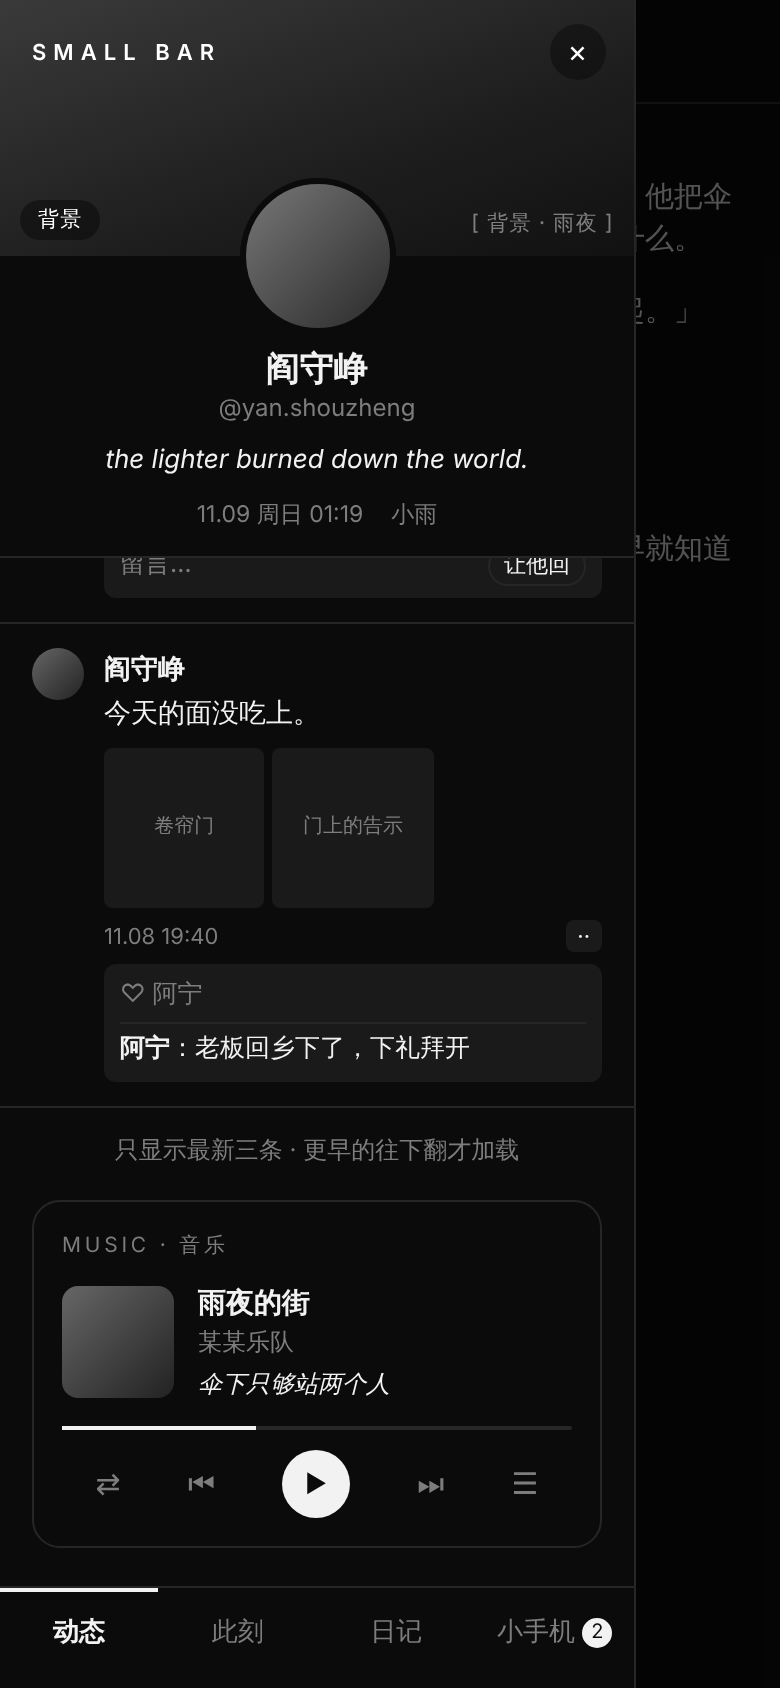
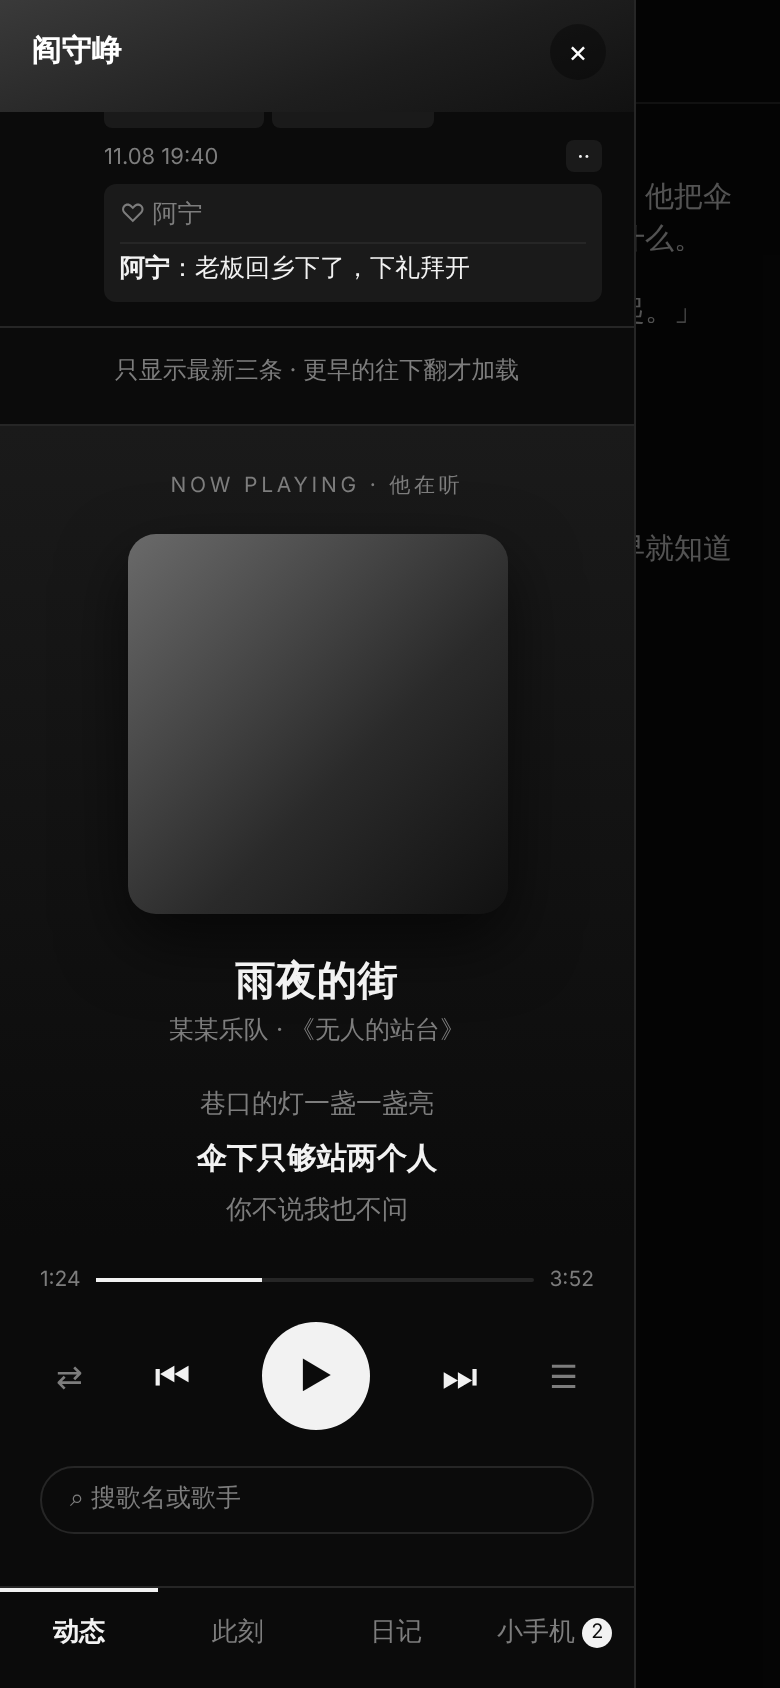
样子图：音乐改大气、此刻加备忘录、日记点开一篇；往下滑顶上收成一条
Claude-Session: https://claude.ai/code/session_01PCU4N3EkwLiSvaEMBpozR4

diff --git a/docs/mockups/mock.html b/docs/mockups/mock.html
@@ -130,6 +130,26 @@ body{margin:0;width:390px;height:844px;overflow:hidden;font:14px/1.5 -apple-syst
 .bar2{height:2px;background:var(--line);border-radius:1px;margin:12px 0 10px}.bar2 i{display:block;width:38%;height:100%;background:var(--fg)}
 .mctl{display:flex;justify-content:space-around;align-items:center;font-size:15px;color:var(--dim)}.mctl .play{width:34px;height:34px;border-radius:50%;background:var(--fg);color:var(--bg);display:flex;align-items:center;justify-content:center;font-size:12px}
 #feed{overflow:auto}
+.music2{margin:6px 0 0;padding:22px 20px 26px;border-top:1px solid var(--line);background:linear-gradient(var(--soft),var(--bg) 70%)}
+.bigcover{width:190px;height:190px;margin:0 auto;border-radius:14px;background:linear-gradient(135deg,#d6d6d6,#6a6a6a 60%,#2e2e2e);box-shadow:0 14px 34px rgba(0,0,0,.25)}
+.dark .bigcover{background:linear-gradient(135deg,#6a6a6a,#2a2a2a 60%,#111);box-shadow:0 14px 34px rgba(0,0,0,.6)}
+.mt2{text-align:center;font-size:20px;font-weight:700;margin-top:18px;letter-spacing:.02em}
+.ma2{text-align:center;font-size:12.5px;color:var(--dim);margin-top:2px}
+.lyr{text-align:center;margin-top:14px;font-size:13px;color:var(--dim);line-height:1.9}.lyr .cur{color:var(--fg);font-size:15px;font-weight:600}
+.prog{display:flex;align-items:center;gap:8px;font-size:10.5px;color:var(--dim);margin-top:14px}.prog .bar2{flex:1;margin:0}
+.mctl2{display:flex;justify-content:space-between;align-items:center;margin:14px 8px 0;font-size:16px;color:var(--dim)}.mctl2 .big{font-size:20px;color:var(--fg)}
+.play2{width:54px;height:54px;border-radius:50%;background:var(--fg);color:var(--bg);display:flex;align-items:center;justify-content:center;font-size:18px}
+.msearch{margin-top:18px;height:34px;border-radius:17px;border:1px solid var(--line);display:flex;align-items:center;padding:0 14px;font-size:12.5px;color:var(--dim)}
+.memo{display:flex;align-items:center;gap:10px;padding:8px 0;border-bottom:1px solid var(--line);font-size:13.5px}
+.memo .ck{width:16px;height:16px;border:1.5px solid var(--fg);border-radius:4px;display:flex;align-items:center;justify-content:center;font-size:11px;flex:0 0 auto}
+.memo.done{color:var(--dim);text-decoration:line-through}.memo.done .ck{border-color:var(--dim)}
+.dback{font-size:12.5px;color:var(--dim)}
+.dtitle{font-size:18px;font-weight:700;margin-top:4px;font-family:"Songti SC","Noto Serif CJK SC",serif}
+.slip{margin:16px 30px 0 auto;width:72%;background:var(--soft);border:1px solid var(--line);padding:8px 10px;font-size:12.5px;transform:rotate(-1.5deg);box-shadow:0 3px 8px rgba(0,0,0,.08)}
+.dacts{display:flex;justify-content:space-between;margin-top:20px;padding-top:10px;border-top:1px solid var(--line);font-size:12px;color:var(--dim)}
+.drawer.pf.mini .cover{height:56px}.drawer.pf.mini .cover>span:not(.x){display:none}.drawer.pf.mini .cover{font-size:0}
+.drawer.pf.mini .pfav,.drawer.pf.mini .pfhd,.drawer.pf.mini .pfbio,.drawer.pf.mini .pfmeta{display:none}
+.drawer.pf.mini .pfname{position:absolute;top:16px;left:16px;margin:0;color:#fff;font-size:15px}
 </style></head><body>
 <div class="st">
   <div class="bar"><span style="font-size:13px;color:var(--fg)">阎守峥</span></div>
@@ -172,7 +192,7 @@ const drawer=`<div class="shade"></div><div class="drawer">
 const P=(t,body,media,a)=>`<div class="post"><div class="av xs"></div><div style="flex:1"><div><b style="font-size:13px">阎守峥</b> <span class="hd">· ${t}</span></div>
    <div class="body">${body}</div>${media?`<div class="media">[ 照片 · ${media} ]</div>`:''}
    <div class="acts"><span>♡ ${a[0]}</span><span>○ ${a[1]}</span><span>↻ ${a[2]}</span></div></div></div>`;
-const tab=q.get('tab')||'posts';
+const tab0=q.get('tab')||'posts';const tab=tab0==='diaryopen'?'diary':tab0;
 const TABS=[['posts','动态'],['now','此刻'],['diary','日记'],['phone','小手机']];
 const tabsHtml=`<div class="tabs">${TABS.map(([k,n])=>`<span class="${k===tab?'on':''}">${n}${k==='phone'?' <span class="badge sm">2</span>':''}</span>`).join('')}</div>`;
 const body={
@@ -201,11 +221,15 @@ const body={
    </div>
   </div>
   <div class="mo last"><span class="hd">只显示最新三条 · 更早的往下翻才加载</span></div>
-  <div class="music">
-   <div class="cap" style="margin-bottom:10px">music · 音乐</div>
-   <div class="mrow"><div class="cover"></div><div style="flex:1;min-width:0"><div class="mtt">雨夜的街</div><div class="hd">某某乐队</div><div class="lyric">伞下只够站两个人</div></div></div>
-   <div class="bar2"><i></i></div>
-   <div class="mctl"><span>⇄</span><span>⏮</span><span class="play">▶</span><span>⏭</span><span>☰</span></div>
+  <div class="music2">
+   <div class="cap" style="text-align:center;margin-bottom:16px">now playing · 他在听</div>
+   <div class="bigcover"></div>
+   <div class="mt2">雨夜的街</div>
+   <div class="ma2">某某乐队 · 《无人的站台》</div>
+   <div class="lyr"><div>巷口的灯一盏一盏亮</div><div class="cur">伞下只够站两个人</div><div>你不说我也不问</div></div>
+   <div class="prog"><span>1:24</span><div class="bar2"><i></i></div><span>3:52</span></div>
+   <div class="mctl2"><span>⇄</span><span class="big">⏮</span><span class="play2">▶</span><span class="big">⏭</span><span>☰</span></div>
+   <div class="msearch">⌕ 搜歌名或歌手</div>
   </div>
  </div>`,
  now:`<div class="feed" style="padding:14px 16px">
@@ -215,6 +239,20 @@ const body={
    <div class="k">想要</div><div class="want"><span class="heart">♥</span>她再待一会儿</div>
   </div>
   <div class="voice"><div><span class="k" style="color:var(--dim);font-size:11px;letter-spacing:.14em">心声</span><br>伞再偏一点她就看出来了。</div><span class="flip">翻面</span></div>
+  <div class="cap" style="margin:20px 0 8px;display:flex;justify-content:space-between"><span>memo · 备忘录</span><span>3 / 15</span></div>
+  <div class="memo"><span class="ck"></span>明早七点去码头接货</div>
+  <div class="memo"><span class="ck"></span>伞拿去修，伞骨断了一根</div>
+  <div class="memo"><span class="ck"></span>问阿宁面馆哪天开</div>
+  <div class="memo done"><span class="ck">✓</span>把那件大衣送去干洗</div>
+ </div>`,
+ diaryopen:`<div class="feed" style="padding:14px 16px 10px">
+  <div class="dback">← 日记</div>
+  <div class="dday" style="margin-top:12px"><b>11.09</b> 周日 · 小雨</div>
+  <div class="dtitle">等雨停</div>
+  <div class="dtext">她今天没带伞。我在巷口等了四十分钟，跟自己说是在等雨停。<br><br>回去的路上她一直没说话，快到门口才问我冷不冷。我说不冷。肩膀湿了一半，她大概看见了。</div>
+  <div class="dsign">—— 守</div>
+  <div class="slip"><div class="hd" style="font-size:10.5px;margin-bottom:2px">她留的小纸条</div>看见了。下次伞往你自己那边打。</div>
+  <div class="dacts"><span>♡ 喜欢</span><span>✎ 纸条</span><span>⤓ 存图</span><span>⧉ 复制</span><span>删除</span></div>
  </div>`,
  diary:`<div class="feed" style="padding:14px 16px">
   <div class="dday"><b>11.09</b> 周日 · 小雨</div>
@@ -244,7 +282,7 @@ const profile=`<div class="shade"></div><div class="drawer pf">
  <div class="pfhd">@yan.shouzheng</div>
  <div class="pfbio">the lighter burned down the world.</div>
  <div class="pfmeta"><span>11.09 周日 01:19</span><span>小雨</span></div>
- ${body[tab]||body.posts}
+ ${body[tab0]||body.posts}
  ${tabsHtml}
  ${q.get('bg')?bgsheet:''}
 </div>`;
@@ -281,5 +319,5 @@ const phone=`<div class="shade"></div><div class="phone">
 </div>`;
 document.getElementById('cat').src='cat-'+(q.get('t')==='dark'?'dark':'light')+'-'+(q.get('c')||'idle')+'.png'; if(s) document.getElementById('cat').style.display='none';
 document.getElementById('extra').innerHTML = s==='drawer'?drawer : s==='profile'?profile : s==='x'?xpage : s==='phone'?phone : '';
-if(q.get('scroll')){const f=document.getElementById('feed');if(f)f.scrollTop=9999;}
+if(q.get('scroll')){document.querySelector('.drawer.pf')?.classList.add('mini');const f=document.getElementById('feed');if(f)f.scrollTop=9999;}
 </script></body></html>

diff --git a/docs/design.md b/docs/design.md
@@ -19,9 +19,10 @@
 2. **账号和记忆**：分账号（工作 / 私人……）；「他认出你」「你认出他」两项分开设（没认出 / 怀疑 / 确认），可勾他线上已知道的资料；每个联系人记最近 N 条（默认 50），可选带进正文、可选给别的账号参考
 3. **X**（公开的网上身份，可单独关）：他的主页（头像、背景、网名、账号、简介都能改）；随剧情 0～2 条新帖，显示最新 15 条；点赞、收藏、留言、搜索、删帖；私信是另一段关系（你对他是陌生人），他可能已读不回、拉黑；你可以有多个 X 账号；从 X 加到小手机
 4. **动态**：就是朋友圈（她 11/9 确认「差不多」）：熟人圈子、现实身份，和 X 分开。样子 moments-*.png：正文、照片九宫格（写画面描述）、时间地点；底下点赞名单和留言，她能点赞、留言，他回复她；「让他回」马上单独请求一次，不点就等下一轮正文顺带回。只显示最新三条，更早的往下翻才加载
-   - 音乐卡片在动态最下面，往下滑才看到（music-*.png）
-5. **此刻**：时间、天气、在哪、穿着、想要（心跳）、心声（翻面看另一面）；备忘录（要做的事，最多 15 项）
-6. **日记**：不强制每轮写，酌情 0～2 篇，列表显示最新 3 篇；笔名署名；喜欢、留小纸条、存成图片、复制、删除
+   - 音乐在动态最下面，往下滑才看到；她要「大气一点」：大封面居中、歌名大字、上中下三句歌词（当前句加粗）、进度、大播放钮、搜歌框（music-*.png）
+   - 往下滑时顶上主页收成一条（只剩名字和 ×），给内容让地方
+5. **此刻**：时间、天气、在哪、穿着、想要（心跳）、心声（翻面看另一面）；备忘录（要做的事，最多 15 项，做完划掉暂留）。样子 now-*.png
+6. **日记**：不强制每轮写，酌情 0～2 篇，列表显示最新 3 篇；笔名署名；喜欢、留小纸条、存成图片、复制、删除。点开一篇：diaryopen-*.png（标题、正文、署名，她的小纸条斜贴在下面，底下一排操作）
 7. **音乐**：要（她 11/9 说的），放在「动态」页下面，往下滑才看到；歌源靠第三方
 8. **不做**：灵动岛；拖动缩放窗口；雨 / 雪 / 尘这类特效
 9. **和 Rainday 不一样的地方**：一个扩展装好就能用，不要酒馆助手、不要正则、不要世界书；API 跟正文或从钥匙本挑；「省一点」开关（小手机回复时不顺带写心声、日记、新帖）
